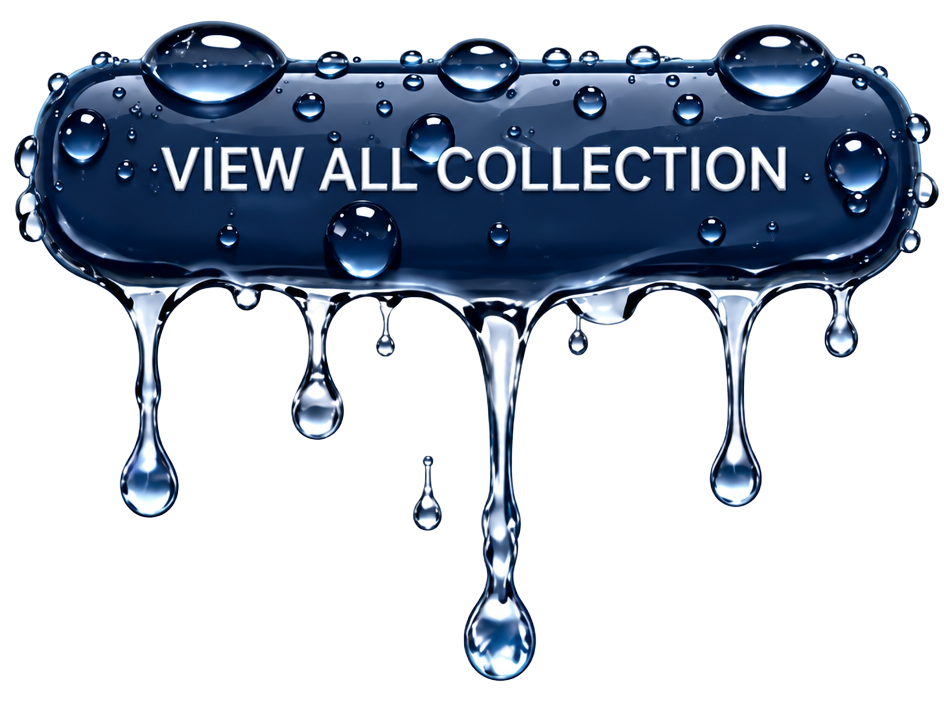
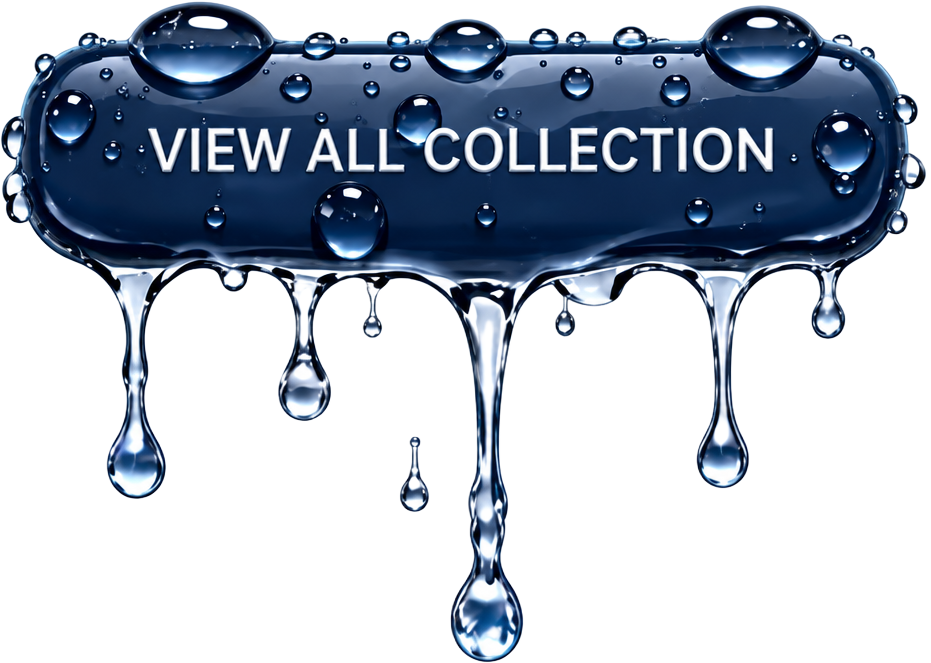
Changes

diff --git a/src/routes/index.tsx b/src/routes/index.tsx
@@ -2,7 +2,7 @@ import { createFileRoute } from "@tanstack/react-router";
 import hero from "@/assets/hero.jpg";
 import drops from "@/assets/water-drops-bg.jpg";
 import ocean from "@/assets/ocean.jpg";
-import button from "@/assets/water-button.jpg";
+import button from "@/assets/water-button.png";
 import p1 from "@/assets/prod1.jpg";
 import p2 from "@/assets/prod2.jpg";
 import p3 from "@/assets/prod3.jpg";
@@ -66,13 +66,13 @@ function Index() {
         </div>
       </section>
 
-      <div className="relative z-10 flex justify-center pt-9 bg-cover" style={{ backgroundImage: `url(${drops})` }}>
-        <a href="#" aria-label="View all collection" className="block w-72 md:w-96">
-          <img src={button} alt="View all collection" className="w-full mix-blend-multiply" />
+      <div className="relative z-10 flex justify-center pt-5" style={{ backgroundImage: `url(${drops})`, backgroundSize: "100% auto", backgroundPosition: "top", backgroundRepeat: "no-repeat" }}>
+        <a href="#" aria-label="View all collection" className="block w-72 bg-transparent md:w-96" style={{ background: "transparent" }}>
+          <img src={button} alt="View all collection" className="w-full [filter:drop-shadow(0_12px_24px_rgba(15,35,65,0.25))]" style={{ background: "transparent" }} />
         </a>
       </div>
 
-      <div className="-mt-6 h-64 overflow-hidden bg-ocean">
+      <div className="-mt-[2px] h-64 overflow-hidden">
         <img src={ocean} alt="" className="h-full w-full object-cover" />
       </div>
     </div>
